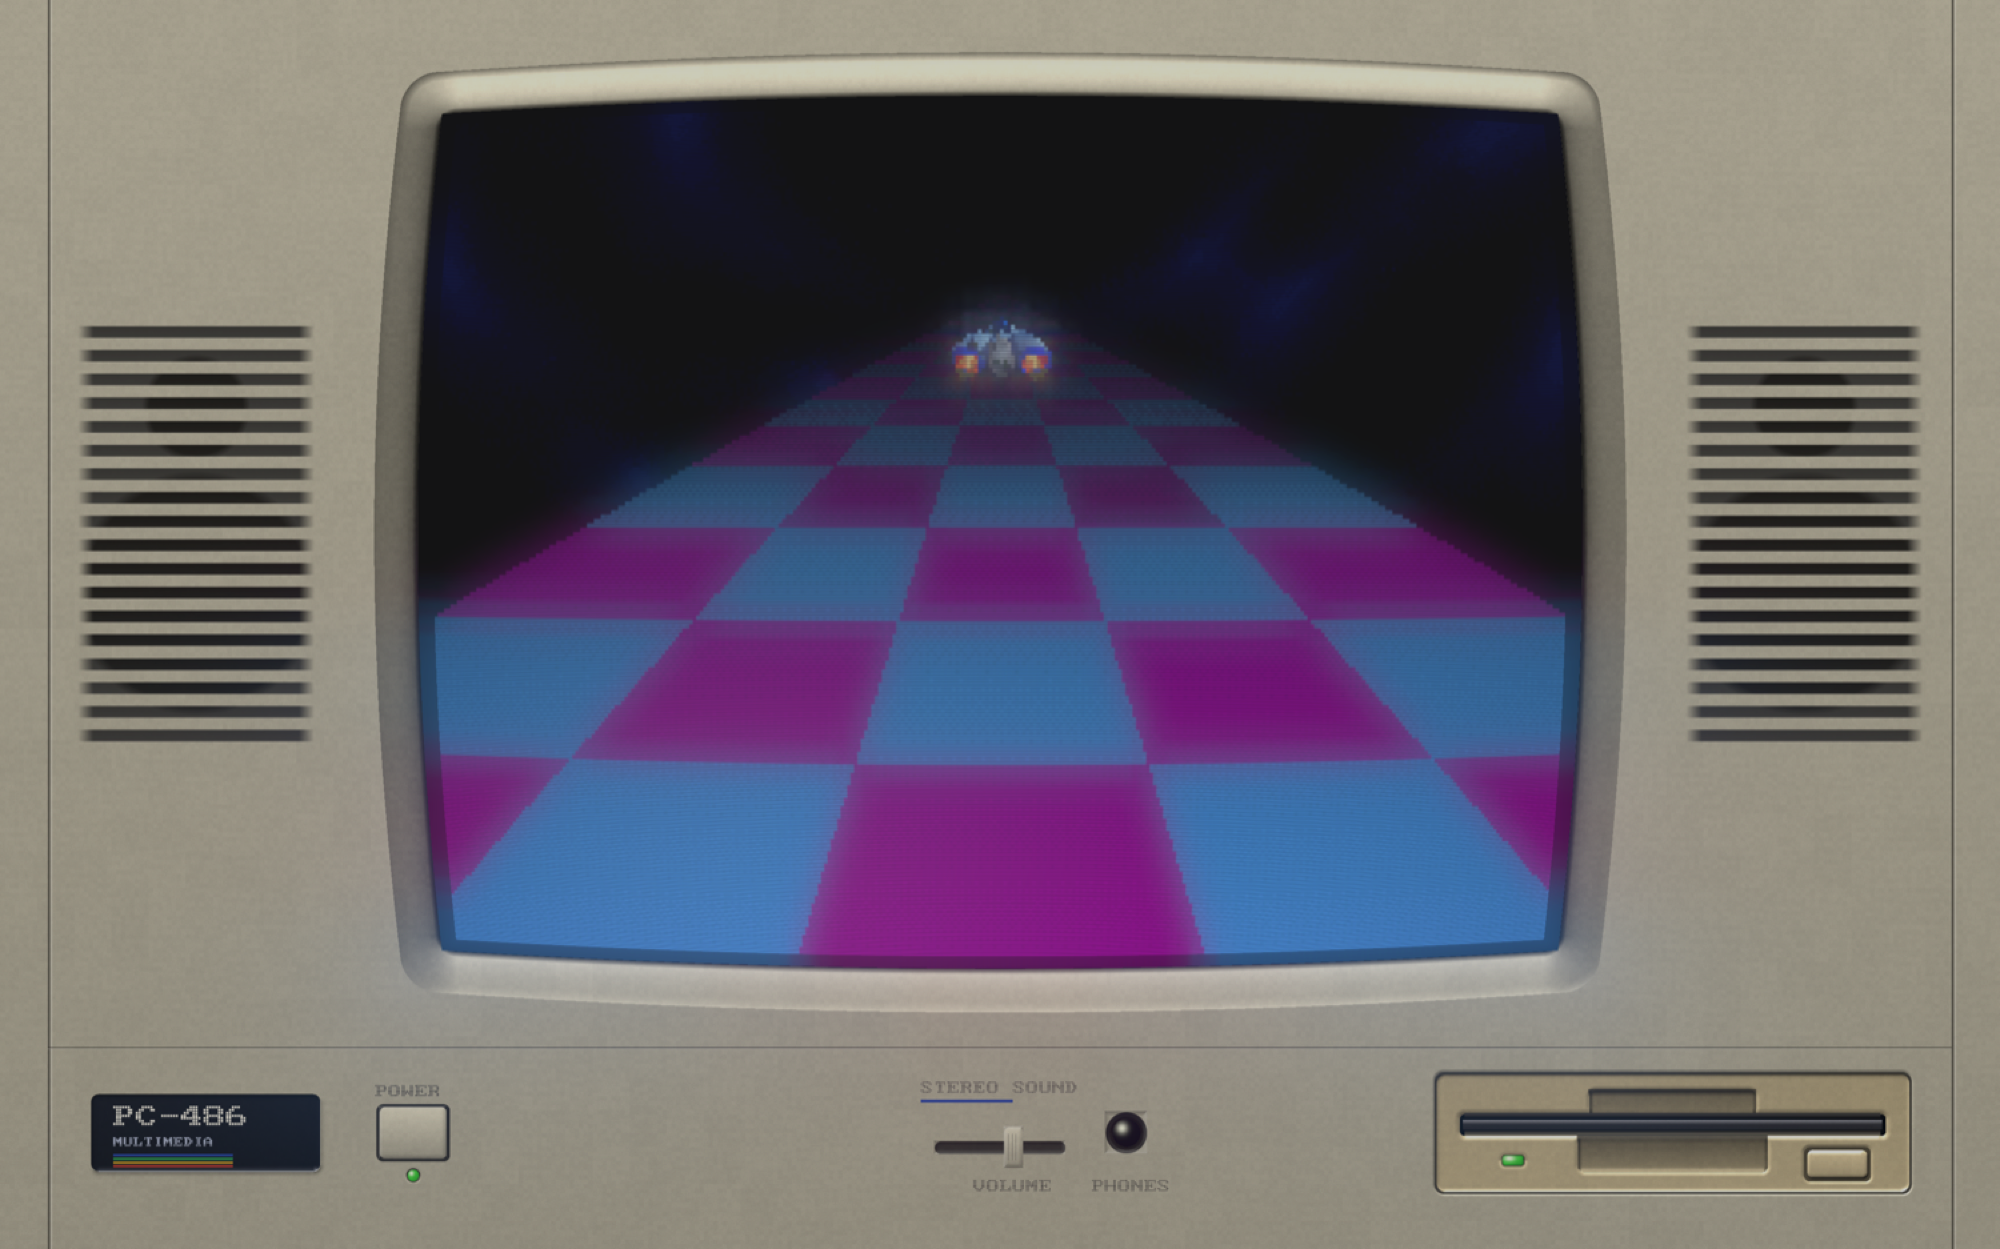
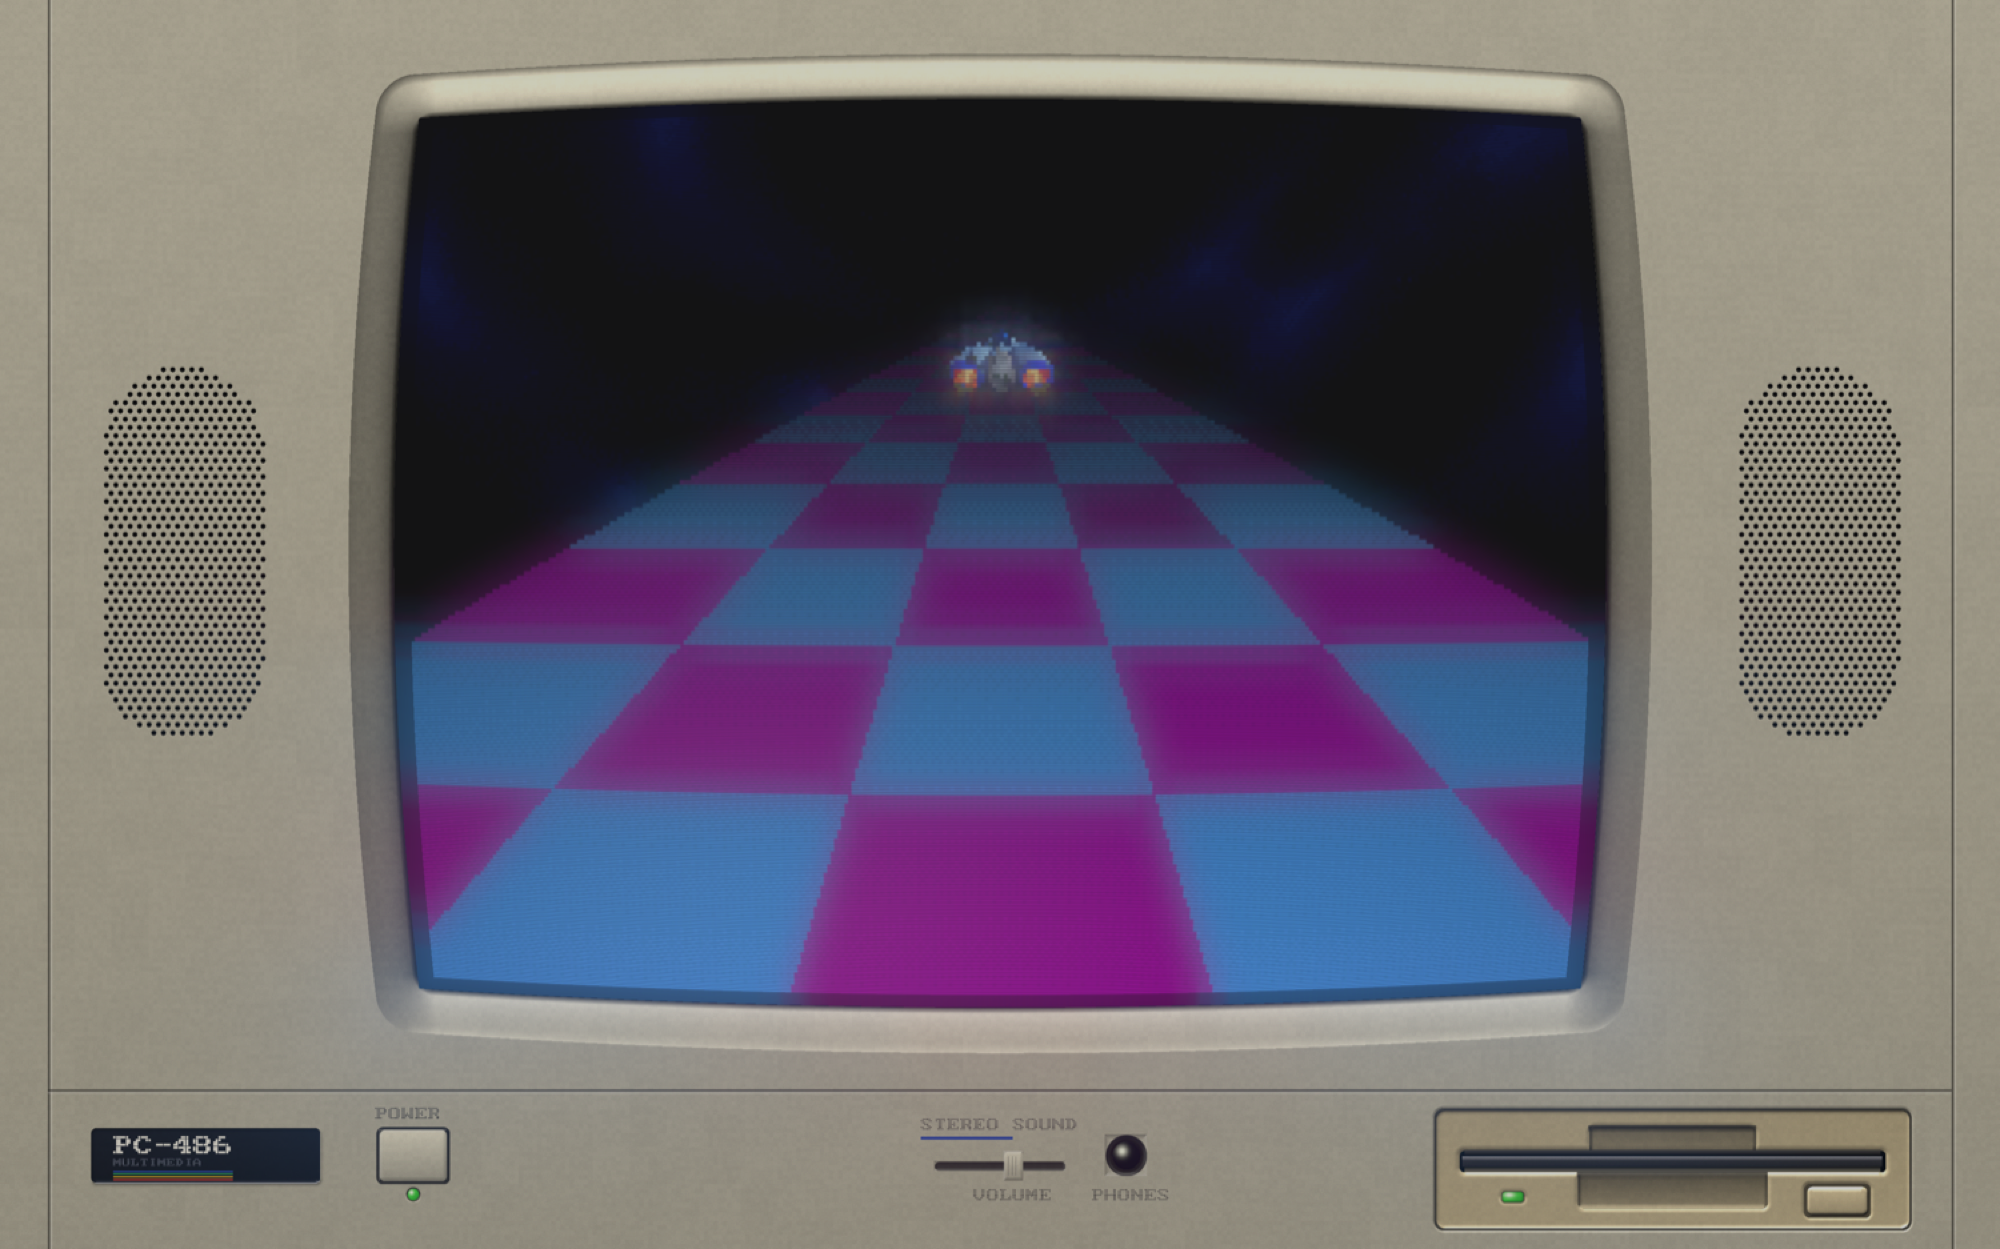
refactor: replace grille slats with hex-packed holes and adjust chassis layout scaling

diff --git a/src/chassis.c b/src/chassis.c
@@ -241,38 +241,44 @@ static void led_rect(canvas *c,float cx,float cy,float w,float h,
 static void housing_edge(canvas *c,float x,float y,float w,float h,float r,
                          float ew,float shadow,int raised,float gain);
 static void grille_panel(canvas *c,float x,float y,float w,float h,float pitch){
-    /* Flat, like the real thing: slats moulded straight into the case face -
-     * no recessed well, no raised frame.  Through the slots you glimpse the
-     * driver: a darker disc behind the middle of the panel, near-black at
-     * the cone, dark grey where the slot only shows backing plastic. */
-    float ccx=x+w*0.5f;
-    float wy=y+h*0.640f, wr=fminf(w*0.470f,h*0.30f);   /* woofer, low  */
-    float ty=y+h*0.215f, tr=wr*0.42f;                  /* tweeter, high */
-    if(pitch<3.0f) pitch=3.0f;
-    float slot=fmaxf(1.5f,pitch*0.50f);
-    for(float sy=y+pitch*0.5f; sy<y+h-slot; sy+=pitch){
-        for(int t=0;t<(int)slot;t++){
-            float yy=sy+t;
-            for(int i2=(int)x;i2<(int)(x+w);i2++){
-                float e=1.0f;                       /* rounded slot ends */
-                float dl=(i2-x)/(slot*1.3f), dr=((x+w)-i2)/(slot*1.3f);
-                if(dl<1.0f) e=dl;
-                if(dr<1.0f) e=fminf(e,dr);
-                if(e<=0.0f) continue;
-                float dx=i2-ccx;
-                float dw=sqrtf(dx*dx+(yy-wy)*(yy-wy));
-                float dt=sqrtf(dx*dx+(yy-ty)*(yy-ty));
-                float cone=fmaxf(
-                    1.0f-fminf(fmaxf((dw-wr)/(wr*0.10f),0.0f),1.0f),
-                    1.0f-fminf(fmaxf((dt-tr)/(tr*0.16f),0.0f),1.0f));
-                int v=(int)(46.0f-36.0f*cone);      /* backing vs cone */
-                v+=(int)(9.0f*((float)t/slot));     /* slot depth shading */
-                px_blend(c,i2,(int)yy,v,v-1,v-2,0.86f*e);
-            }
+    /* Perforated speaker area: a hex-packed grid of small punched holes
+     * confined to a capsule-shaped zone.  The case face stays flush and
+     * plain; each hole gets the full treatment - dark interior slightly
+     * lighter at its bottom, an overhang shadow inside the top edge, a
+     * faint lit lip on the plastic below, soft anti-aliased rim. */
+    float ccx=x+w*0.5f, ccy=y+h*0.5f;
+    float hw=w*0.40f, hh=h*0.42f;
+    float crad=fminf(hw,hh);
+    float hp=fmaxf(3.0f,pitch*0.40f);            /* hole pitch  */
+    float hr=hp*0.28f;                           /* hole radius */
+    int row=0;
+    for(float cy2=y+hp; cy2<y+h-hp*0.5f; cy2+=hp*0.87f,row++){
+        float ox=(row&1)? hp*0.5f : 0.0f;
+        for(float cx2=x+hp+ox; cx2<x+w-hp*0.5f; cx2+=hp){
+            /* only holes fully inside the capsule */
+            if(rr_sd(cx2,cy2,ccx,ccy,hw,hh,crad) > -hr*1.2f) continue;
+            for(int j2=(int)(cy2-hr-2);j2<=(int)(cy2+hr+3);j2++)
+                for(int i2=(int)(cx2-hr-2);i2<=(int)(cx2+hr+3);i2++){
+                    float dx=(i2-cx2)/hr, dy=(j2-cy2)/hr;
+                    float d=sqrtf(dx*dx+dy*dy);
+                    if(d<=1.0f){
+                        /* interior: dark, lighter toward the bottom, with
+                         * the overhang shadow filling the top */
+                        float v=16.0f+10.0f*fmaxf(0.0f,dy);
+                        if(dy<-0.2f) v*=0.62f;
+                        float a=fminf(1.0f,(1.0f-d)/0.18f);   /* AA rim */
+                        px_blend(c,i2,j2,(int)v,(int)v,(int)(v*1.04f),
+                                 0.35f+0.65f*a);
+                    } else if(d<=1.55f){
+                        float t=(d-1.0f)/0.55f;
+                        if(dy>0.3f)          /* lit lip below the hole */
+                            px_shade(c,i2,j2,1.0f+0.14f*(1.0f-t)*dy/d,
+                                     (1.0f-t)*0.03f);
+                        else if(dy<-0.3f)    /* soft shadow above */
+                            px_shade(c,i2,j2,1.0f-0.10f*(1.0f-t)*(-dy/d),0.0f);
+                    }
+                }
         }
-        /* the thinnest lit line under each rib, or the slats read as paint */
-        for(int i2=(int)(x+slot);i2<(int)(x+w-slot);i2++)
-            px_blend(c,i2,(int)(sy+slot),252,250,244,0.15f);
     }
 }
 static void seam(canvas *c,float x,float y,float len,int vertical,float w){
@@ -445,7 +451,7 @@ dxm_layout chassis_layout(int W,int H){
     float edge=W*0.024f, inset=H*0.052f;
     /* the monitor housing is chunky: it wraps the picture by BEZEL_HOUSING
      * on every side, and the layout has to budget for it */
-    float th=((float)H-inset)*0.735f, tw=th*4.0f/3.0f;   /* slimmer band */
+    float th=((float)H-inset)*0.765f, tw=th*4.0f/3.0f;   /* slimmer band */
     float hous=th*BEZEL_HOUSING;
     /* The CRT sits in the CENTRE, a speaker column on each side; the drive
      * and controls all live in the bottom band.  One arrangement for every
@@ -666,12 +672,12 @@ uint8_t *chassis_render(const dxm_layout *L,int W,int H){
     float band_y=L->tube_y+L->tube_h+hous+inset*0.22f;
     float band_h=(float)H-inset*0.55f-band_y;
     if(band_h>inset*0.8f){
-        seam(c,edge,band_y-inset*0.26f,(float)W-2*edge,0,fmaxf(1.0f,H*0.0012f));
+        seam(c,edge,band_y-inset*0.26f,(float)W-2*edge,0,fmaxf(1.0f,W*0.0012f));
         float mid=band_y+band_h*0.46f;
-        float mm=band_h/32.0f;          /* ONE physical scale: the band is a
-                                           ~32mm strip, and every module on it
-                                           is drawn in real millimetres so the
-                                           sizes agree with each other */
+        float mm=H/268.0f;              /* ONE physical scale, tied to the
+                                           DISPLAY, not the band - so slimming
+                                           the band does not shrink the
+                                           devices mounted on it */
 
         /* badge: the logo, kept, but narrow */
         float pbw=fminf(W*0.115f,L->tube_h*0.34f);
@@ -716,10 +722,12 @@ uint8_t *chassis_render(const dxm_layout *L,int W,int H){
         led(c,jx+js*0.5f,mid,3.2f*mm,14,13,12);  /* 6.35mm hole */
         text(c,jx-g_lbl*8*1.0f,band_y+band_h*0.78f,"PHONES",g_lbl,96,92,84);
 
-        /* floppy drive: a real 3.5" face is 101.6 x 25.4 mm */
+        /* floppy drive: a real 3.5" face is 101.6 x 25.4 mm, centred
+         * vertically between the divider ridge and the case bottom */
         float fh=25.4f*mm, fw2=101.6f*mm;
         float fx=(float)W-edge-inset*0.65f-fw2;
-        floppy_drive(c,fx,mid-fh*0.5f,fw2,fh);
+        float fmid=((band_y-inset*0.26f)+(float)H)*0.5f;
+        floppy_drive(c,fx,fmid-fh*0.5f,fw2,fh);
     }
 
     return C.px;
